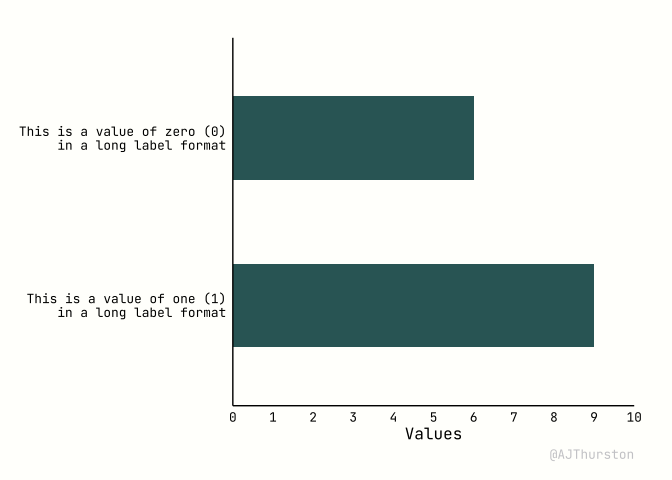
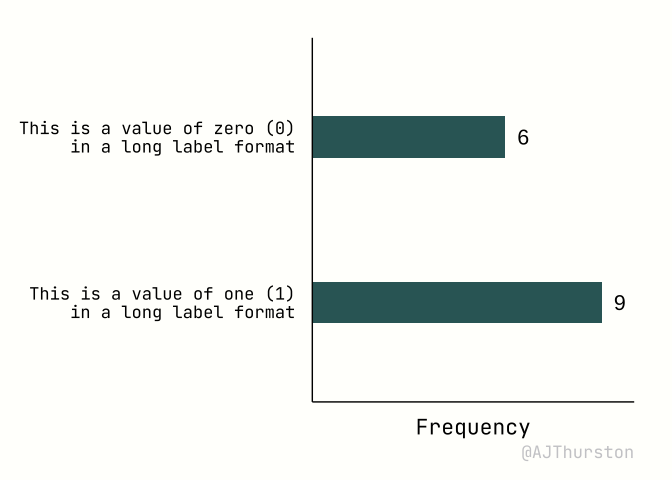
Updates to Bar and Theme

diff --git a/bar/README.md b/bar/README.md
@@ -19,10 +19,13 @@ dat <- data.frame(values = as.factor(c(rep(0,6),rep(1,9))))
 
 ``` r
 ggplot(dat, aes(x = values)) +
-  geom_bar(fill = "#336666", width = .5) +
+  geom_bar(fill = "#336666", width = .25) +
+  geom_text(aes(label = after_stat(count)), stat = "count", size = 16/.pt, vjust = -1) +
   labs(x = "Values", y = "Frequency") +
   scale_y_continuous(limits = c(0,10), breaks = c(0:10), expand = c(0,0)) +
-  theme_custom()
+  theme_custom() +
+    theme(axis.text.y = element_blank()
+  )
 ```
 
 ![](bar_files/figure-commonmark/plot-1.png)
@@ -49,11 +52,43 @@ plotted from the y-axis and frequencies are plotted on the x-axis.
 
 ``` r
 ggplot(dat, aes(y = fct_rev(values_name))) +
-  geom_bar(fill = "#336666", width = .5) +
-  labs(x = "Values", y = "Frequency") +
+  geom_bar(fill = "#336666", width = .25) +
+  geom_text(aes(label = after_stat(count)), stat = "count", size = 16/.pt, hjust = -1) +
+  labs(x = "Frequency", y = NULL) +
   scale_x_continuous(limits = c(0,10), breaks = c(0:10), expand = c(0,0)) +
   theme_custom() +
-  theme(axis.title.y = element_blank())
+  theme(axis.text.x = element_blank()
+        )
 ```
 
 ![](bar_files/figure-commonmark/horizontal_bar-1.png)
+
+## Loading Bar Plot
+
+A loading bar plot is a 100% stacked bar chart. Instead of displaying
+raw counts, each bar is rescaled so that the total equals 100%. This
+allows direct comparison of proportions across categories. The bars
+resemble progress indicators, with segment widths corresponding to the
+percentage share of each component. Whitespace is important here, as the
+empty portion of the bar visually reinforces the gap between the
+observed proportion and the full 100%.
+
+``` r
+dat_prop <- dat |>
+  count(values_name) |>
+  mutate(prop = n / sum(n)) |>
+  mutate(label = scales::percent(prop, accuracy = 1))
+
+ggplot(dat_prop, aes(x = prop, y = fct_rev(values_name))) +
+  geom_col(aes(x = 1), fill = NA, color = "#336666", size = 16/.pt, width = .25) +
+  geom_col(fill = "#336666", width = .25) +
+  geom_text(aes(label = label), hjust = -.25) +
+  scale_x_continuous(expand = c(0,0), limits = c(0,1)) +
+  labs(x = "Percent", y = NULL) +
+  theme_custom() +
+  theme(
+    axis.text.x = element_blank()
+    )
+```
+
+![](bar_files/figure-commonmark/loading_bar-1.png)
